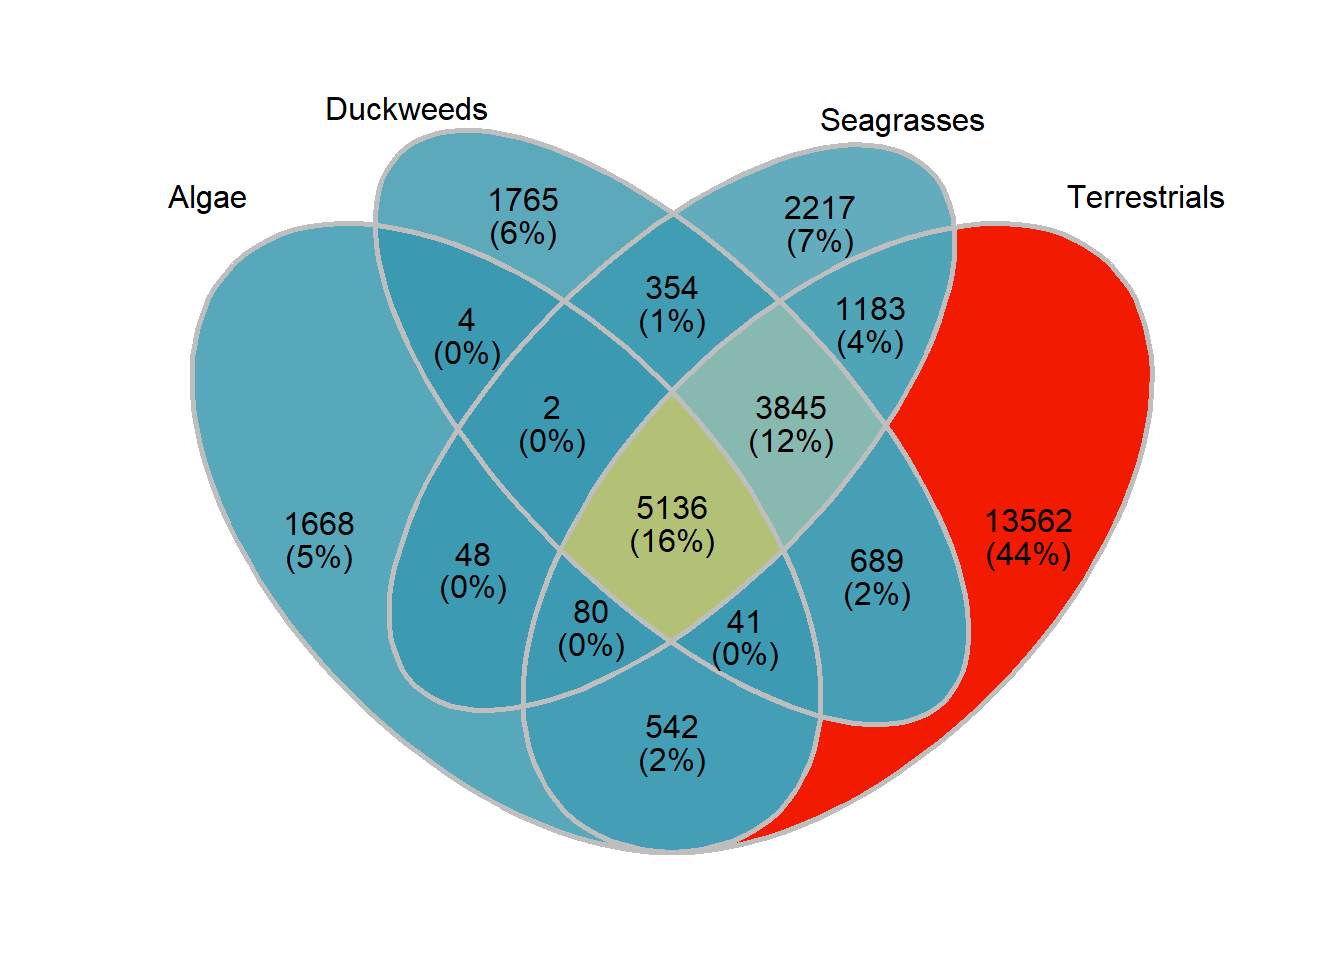
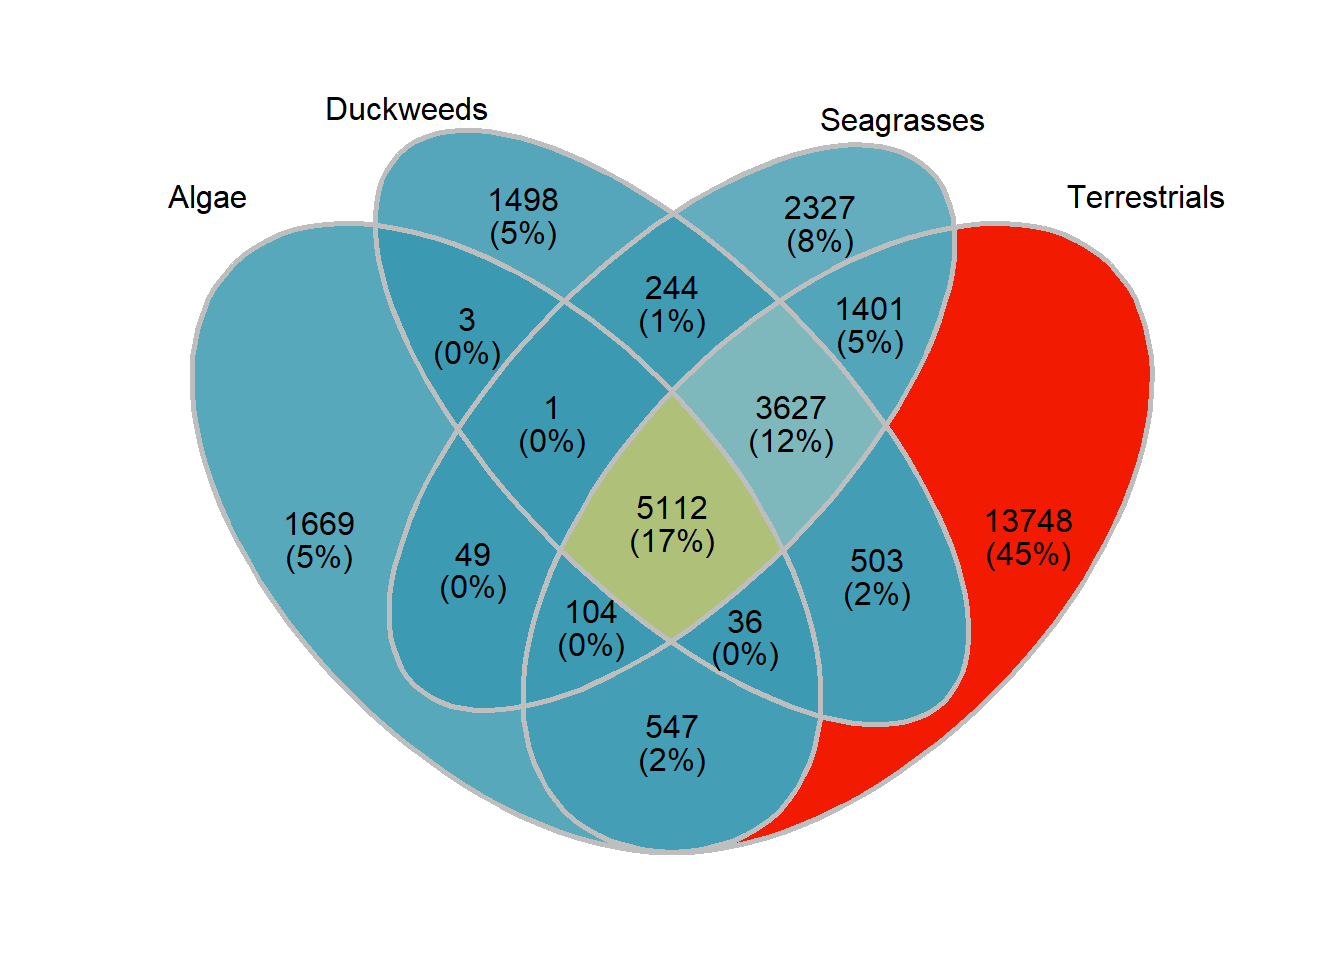
Build site.

diff --git a/docs/GO_and_ortho.html b/docs/GO_and_ortho.html
@@ -357,7 +357,8 @@ div.tocify {
 
 
 
-<h1 class="title toc-ignore">Visualising gene differences based on read alignments</h1>
+<h1 class="title toc-ignore">Visualising gene differences based on read
+alignments</h1>
 <h4 class="author">Philipp Bayer</h4>
 <h4 class="date">9th March 2022</h4>
 
@@ -366,7 +367,9 @@ div.tocify {
 
 <p>
 <button type="button" class="btn btn-default btn-workflowr btn-workflowr-report" data-toggle="collapse" data-target="#workflowr-report">
-<span class="glyphicon glyphicon-list" aria-hidden="true"></span> workflowr <span class="glyphicon glyphicon-ok text-success" aria-hidden="true"></span>
+<span class="glyphicon glyphicon-list" aria-hidden="true"></span>
+workflowr <span class="glyphicon glyphicon-ok text-success"
+aria-hidden="true"></span>
 </button>
 </p>
 <div id="workflowr-report" class="collapse">
@@ -375,7 +378,9 @@ div.tocify {
 <a data-toggle="tab" href="#summary">Summary</a>
 </li>
 <li>
-<a data-toggle="tab" href="#checks"> Checks <span class="glyphicon glyphicon-ok text-success" aria-hidden="true"></span> </a>
+<a data-toggle="tab" href="#checks"> Checks <span
+class="glyphicon glyphicon-ok text-success" aria-hidden="true"></span>
+</a>
 </li>
 <li>
 <a data-toggle="tab" href="#versions">Past versions</a>
@@ -384,17 +389,28 @@ div.tocify {
 <div class="tab-content">
 <div id="summary" class="tab-pane fade in active">
 <p>
-<strong>Last updated:</strong> 2022-03-10
+<strong>Last updated:</strong> 2022-04-26
 </p>
 <p>
-<strong>Checks:</strong> <span class="glyphicon glyphicon-ok text-success" aria-hidden="true"></span> 7 <span class="glyphicon glyphicon-exclamation-sign text-danger" aria-hidden="true"></span> 0
+<strong>Checks:</strong> <span
+class="glyphicon glyphicon-ok text-success" aria-hidden="true"></span> 7
+<span class="glyphicon glyphicon-exclamation-sign text-danger"
+aria-hidden="true"></span> 0
 </p>
 <p>
-<strong>Knit directory:</strong> <code>Amphibolis_Posidonia_Comparison/</code> <span class="glyphicon glyphicon-question-sign" aria-hidden="true" title="This is the local directory in which the code in this file was executed."> </span>
+<strong>Knit directory:</strong>
+<code>Amphibolis_Posidonia_Comparison/</code> <span
+class="glyphicon glyphicon-question-sign" aria-hidden="true"
+title="This is the local directory in which the code in this file was executed.">
+</span>
 </p>
 <p>
-This reproducible <a href="http://rmarkdown.rstudio.com">R Markdown</a> analysis was created with <a
-  href="https://github.com/jdblischak/workflowr">workflowr</a> (version 1.6.2). The <em>Checks</em> tab describes the reproducibility checks that were applied when the results were created. The <em>Past versions</em> tab lists the development history.
+This reproducible <a href="http://rmarkdown.rstudio.com">R Markdown</a>
+analysis was created with <a
+  href="https://github.com/jdblischak/workflowr">workflowr</a> (version
+1.6.2). The <em>Checks</em> tab describes the reproducibility checks
+that were applied when the results were created. The <em>Past
+versions</em> tab lists the development history.
 </p>
 <hr>
 </div>
@@ -403,91 +419,138 @@ This reproducible <a href="http://rmarkdown.rstudio.com">R Markdown</a> analysis
 <div class="panel panel-default">
 <div class="panel-heading">
 <p class="panel-title">
-<a data-toggle="collapse" data-parent="#workflowr-checks" href="#strongRMarkdownfilestronguptodate"> <span class="glyphicon glyphicon-ok text-success" aria-hidden="true"></span> <strong>R Markdown file:</strong> up-to-date </a>
+<a data-toggle="collapse" data-parent="#workflowr-checks" href="#strongRMarkdownfilestronguptodate">
+<span class="glyphicon glyphicon-ok text-success"
+aria-hidden="true"></span> <strong>R Markdown file:</strong> up-to-date
+</a>
 </p>
 </div>
-<div id="strongRMarkdownfilestronguptodate" class="panel-collapse collapse">
+<div id="strongRMarkdownfilestronguptodate"
+class="panel-collapse collapse">
 <div class="panel-body">
-<p>Great! Since the R Markdown file has been committed to the Git repository, you know the exact version of the code that produced these results.</p>
+<p>Great! Since the R Markdown file has been committed to the Git
+repository, you know the exact version of the code that produced these
+results.</p>
 </div>
 </div>
 </div>
 <div class="panel panel-default">
 <div class="panel-heading">
 <p class="panel-title">
-<a data-toggle="collapse" data-parent="#workflowr-checks" href="#strongEnvironmentstrongempty"> <span class="glyphicon glyphicon-ok text-success" aria-hidden="true"></span> <strong>Environment:</strong> empty </a>
+<a data-toggle="collapse" data-parent="#workflowr-checks" href="#strongEnvironmentstrongempty">
+<span class="glyphicon glyphicon-ok text-success"
+aria-hidden="true"></span> <strong>Environment:</strong> empty </a>
 </p>
 </div>
 <div id="strongEnvironmentstrongempty" class="panel-collapse collapse">
 <div class="panel-body">
-<p>Great job! The global environment was empty. Objects defined in the global environment can affect the analysis in your R Markdown file in unknown ways. For reproduciblity it’s best to always run the code in an empty environment.</p>
+<p>Great job! The global environment was empty. Objects defined in the
+global environment can affect the analysis in your R Markdown file in
+unknown ways. For reproduciblity it’s best to always run the code in an
+empty environment.</p>
 </div>
 </div>
 </div>
 <div class="panel panel-default">
 <div class="panel-heading">
 <p class="panel-title">
-<a data-toggle="collapse" data-parent="#workflowr-checks" href="#strongSeedstrongcodesetseed20210414code"> <span class="glyphicon glyphicon-ok text-success" aria-hidden="true"></span> <strong>Seed:</strong> <code>set.seed(20210414)</code> </a>
+<a data-toggle="collapse" data-parent="#workflowr-checks" href="#strongSeedstrongcodesetseed20210414code">
+<span class="glyphicon glyphicon-ok text-success"
+aria-hidden="true"></span> <strong>Seed:</strong>
+<code>set.seed(20210414)</code> </a>
 </p>
 </div>
-<div id="strongSeedstrongcodesetseed20210414code" class="panel-collapse collapse">
+<div id="strongSeedstrongcodesetseed20210414code"
+class="panel-collapse collapse">
 <div class="panel-body">
-<p>The command <code>set.seed(20210414)</code> was run prior to running the code in the R Markdown file. Setting a seed ensures that any results that rely on randomness, e.g. subsampling or permutations, are reproducible.</p>
+<p>The command <code>set.seed(20210414)</code> was run prior to running
+the code in the R Markdown file. Setting a seed ensures that any results
+that rely on randomness, e.g. subsampling or permutations, are
+reproducible.</p>
 </div>
 </div>
 </div>
 <div class="panel panel-default">
 <div class="panel-heading">
 <p class="panel-title">
-<a data-toggle="collapse" data-parent="#workflowr-checks" href="#strongSessioninformationstrongrecorded"> <span class="glyphicon glyphicon-ok text-success" aria-hidden="true"></span> <strong>Session information:</strong> recorded </a>
+<a data-toggle="collapse" data-parent="#workflowr-checks" href="#strongSessioninformationstrongrecorded">
+<span class="glyphicon glyphicon-ok text-success"
+aria-hidden="true"></span> <strong>Session information:</strong>
+recorded </a>
 </p>
 </div>
-<div id="strongSessioninformationstrongrecorded" class="panel-collapse collapse">
+<div id="strongSessioninformationstrongrecorded"
+class="panel-collapse collapse">
 <div class="panel-body">
-<p>Great job! Recording the operating system, R version, and package versions is critical for reproducibility.</p>
+<p>Great job! Recording the operating system, R version, and package
+versions is critical for reproducibility.</p>
 </div>
 </div>
 </div>
 <div class="panel panel-default">
 <div class="panel-heading">
 <p class="panel-title">
-<a data-toggle="collapse" data-parent="#workflowr-checks" href="#strongCachestrongnone"> <span class="glyphicon glyphicon-ok text-success" aria-hidden="true"></span> <strong>Cache:</strong> none </a>
+<a data-toggle="collapse" data-parent="#workflowr-checks" href="#strongCachestrongnone">
+<span class="glyphicon glyphicon-ok text-success"
+aria-hidden="true"></span> <strong>Cache:</strong> none </a>
 </p>
 </div>
 <div id="strongCachestrongnone" class="panel-collapse collapse">
 <div class="panel-body">
-<p>Nice! There were no cached chunks for this analysis, so you can be confident that you successfully produced the results during this run.</p>
+<p>Nice! There were no cached chunks for this analysis, so you can be
+confident that you successfully produced the results during this
+run.</p>
 </div>
 </div>
 </div>
 <div class="panel panel-default">
 <div class="panel-heading">
 <p class="panel-title">
-<a data-toggle="collapse" data-parent="#workflowr-checks" href="#strongFilepathsstrongrelative"> <span class="glyphicon glyphicon-ok text-success" aria-hidden="true"></span> <strong>File paths:</strong> relative </a>
+<a data-toggle="collapse" data-parent="#workflowr-checks" href="#strongFilepathsstrongrelative">
+<span class="glyphicon glyphicon-ok text-success"
+aria-hidden="true"></span> <strong>File paths:</strong> relative </a>
 </p>
 </div>
 <div id="strongFilepathsstrongrelative" class="panel-collapse collapse">
 <div class="panel-body">
-<p>Great job! Using relative paths to the files within your workflowr project makes it easier to run your code on other machines.</p>
+<p>Great job! Using relative paths to the files within your workflowr
+project makes it easier to run your code on other machines.</p>
 </div>
 </div>
 </div>
 <div class="panel panel-default">
 <div class="panel-heading">
 <p class="panel-title">
-<a data-toggle="collapse" data-parent="#workflowr-checks" href="#strongRepositoryversionstrongahrefhttpsgithubcomphilippbayerAmphibolisPosidoniaComparisontreed4cd8657f0c6fa05905725b88248d64e8845f1f9targetblankd4cd865a"> <span class="glyphicon glyphicon-ok text-success" aria-hidden="true"></span> <strong>Repository version:</strong> <a href="https://github.com/philippbayer/Amphibolis_Posidonia_Comparison/tree/d4cd8657f0c6fa05905725b88248d64e8845f1f9" target="_blank">d4cd865</a> </a>
+<a data-toggle="collapse" data-parent="#workflowr-checks" href="#strongRepositoryversionstrongahrefhttpsgithubcomphilippbayerAmphibolisPosidoniaComparisontree0e47209cb87014fb6e1f735656025c864deb4144targetblank0e47209a">
+<span class="glyphicon glyphicon-ok text-success"
+aria-hidden="true"></span> <strong>Repository version:</strong>
+<a href="https://github.com/philippbayer/Amphibolis_Posidonia_Comparison/tree/0e47209cb87014fb6e1f735656025c864deb4144" target="_blank">0e47209</a>
+</a>
 </p>
 </div>
[1 lines of base64/hex data omitted]
+<div
[1 lines of base64/hex data omitted]
+class="panel-collapse collapse">
 <div class="panel-body">
 <p>
-Great! You are using Git for version control. Tracking code development and connecting the code version to the results is critical for reproducibility.
+Great! You are using Git for version control. Tracking code development
+and connecting the code version to the results is critical for
+reproducibility.
 </p>
 <p>
-The results in this page were generated with repository version <a href="https://github.com/philippbayer/Amphibolis_Posidonia_Comparison/tree/d4cd8657f0c6fa05905725b88248d64e8845f1f9" target="_blank">d4cd865</a>. See the <em>Past versions</em> tab to see a history of the changes made to the R Markdown and HTML files.
+The results in this page were generated with repository version
+<a href="https://github.com/philippbayer/Amphibolis_Posidonia_Comparison/tree/0e47209cb87014fb6e1f735656025c864deb4144" target="_blank">0e47209</a>.
+See the <em>Past versions</em> tab to see a history of the changes made
+to the R Markdown and HTML files.
 </p>
 <p>
-Note that you need to be careful to ensure that all relevant files for the analysis have been committed to Git prior to generating the results (you can use <code>wflow_publish</code> or <code>wflow_git_commit</code>). workflowr only checks the R Markdown file, but you know if there are other scripts or data files that it depends on. Below is the status of the Git repository when the results were generated:
+Note that you need to be careful to ensure that all relevant files for
+the analysis have been committed to Git prior to generating the results
+(you can use <code>wflow_publish</code> or
+<code>wflow_git_commit</code>). workflowr only checks the R Markdown
+file, but you know if there are other scripts or data files that it
+depends on. Below is the status of the Git repository when the results
+were generated:
 </p>
 <pre><code>
 Ignored files:
@@ -497,11 +560,31 @@ Ignored files:
     Ignored:    analysis/plotRgenes.nb.html
 
 Unstaged changes:
+    Deleted:    aln.fa
+    Modified:   data/Lost_present_gene_lists/Genes_lost_in_A_antarctica_not_other_seagrasses.txt
+    Modified:   data/Lost_present_gene_lists/Genes_lost_in_P_australis_not_other_seagrasses.txt
+    Modified:   data/Lost_present_gene_lists/Genes_lost_in_Z_marina_not_other_seagrasses.txt
+    Modified:   data/Lost_present_gene_lists/Genes_lost_in_Z_muelleri_not_other_seagrasses.txt
+    Modified:   data/Lost_present_gene_lists/Genes_only_in_Algae.txt
+    Modified:   data/Lost_present_gene_lists/Genes_only_in_Aquatics_and_Seagrasses.txt
+    Modified:   data/Lost_present_gene_lists/Genes_only_in_Aquatics_and_Seagrasses_and_Terrestrials.txt
+    Modified:   data/Lost_present_gene_lists/Genes_only_in_Duckweeds.txt
+    Modified:   data/Lost_present_gene_lists/Genes_only_in_Seagrasses.txt
+    Modified:   data/Lost_present_gene_lists/Genes_only_in_Terrestrials.txt
+    Modified:   data/Lost_present_gene_lists/Genes_union_of_Seagrass_and_Aquatics_union.txt
+    Modified:   data/arabidopsis_gene_level_comparison.xlsx
+    Modified:   data/arabidopsis_gene_level_comparison_only_losts.xlsx
+    Modified:   data/arabidopsis_gene_level_counts.xlsx
     Modified:   output/GO_results_genes_in_Algae_NOT_Duckweeds_NOT_Seagrasses_NOT_Terrestrials.csv.png
     Modified:   output/GO_results_genes_in_Aquatics_NOT_Seagrasses_NOT_Terrestrials.csv.png
+    Modified:   output/GO_results_genes_in_Aquatics_and_Seagrasses_NOT_Terrestrials.csv
+    Modified:   output/GO_results_genes_in_Aquatics_and_Seagrasses_NOT_Terrestrials.csv.png
+    Modified:   output/GO_results_genes_in_Duckweeds_NOT_Algae_NOT_Seagrasses_NOT_Terrestrials.csv
     Modified:   output/GO_results_genes_in_Duckweeds_NOT_Algae_NOT_Seagrasses_NOT_Terrestrials.csv.png
+    Modified:   output/GO_results_genes_in_Seagrasses_NOT_Algae_NOT_Duckweeds_NOT_Terrestrials.csv
     Modified:   output/GO_results_genes_in_Seagrasses_NOT_Algae_NOT_Duckweeds_NOT_Terrestrials.csv.png
     Modified:   output/GO_results_genes_in_Seagrasses_NOT_Aquatics_NOT_Terrestrials.csv.png
+    Modified:   output/GO_results_genes_in_Terrestrials_NOT_Aquatics_NOT_Seagrasses.csv
     Modified:   output/GO_results_genes_in_Terrestrials_NOT_Aquatics_NOT_Seagrasses.csv.png
     Modified:   output/GO_results_genes_in_all_seagrasses_vs_backgroundAll_intersect.csv.png
     Modified:   output/GO_results_genes_in_all_seagrasses_vs_backgroundAll_union.csv.png
@@ -513,16 +596,20 @@ Unstaged changes:
     Modified:   output/GO_results_genes_only_P_australis_not_other_seagrasses.csv.png
     Modified:   output/GO_results_genes_only_Z_marina_not_other_seagrasses.csv.png
     Modified:   output/GO_results_genes_only_Z_muelleri_not_other_seagrasses.csv.png
+    Modified:   output/GO_results_genes_union_Aquatics_and_Seagrasses_NOT_Terrestrials.csv
     Modified:   output/GO_results_genes_union_Aquatics_and_Seagrasses_NOT_Terrestrials.csv.png
     Modified:   output/GO_results_terrestrials_vs_union_aquatics_seagrasses.png
     Modified:   output/Lost_GO_terms_in_five_species.PlantSpecific.xlsx
     Modified:   output/Lost_GO_terms_in_five_species.xlsx
     Modified:   output/Seagrasses_shared_lost_genes.xlsx
     Modified:   output/all_GO_plots.Rdata
+    Modified:   output/group_venn_image.Rdata
 
 </code></pre>
 <p>
-Note that any generated files, e.g. HTML, png, CSS, etc., are not included in this status report because it is ok for generated content to have uncommitted changes.
+Note that any generated files, e.g. HTML, png, CSS, etc., are not
+included in this status report because it is ok for generated content to
+have uncommitted changes.
 </p>
 </div>
 </div>
@@ -533,7 +620,12 @@ Note that any generated files, e.g. HTML, png, CSS, etc., are not included in t
 <div id="versions" class="tab-pane fade">
 
 <p>
-These are the previous versions of the repository in which changes were made to the R Markdown (<code>analysis/GO_and_ortho.Rmd</code>) and HTML (<code>docs/GO_and_ortho.html</code>) files. If you’ve configured a remote Git repository (see <code>?wflow_git_remote</code>), click on the hyperlinks in the table below to view the files as they were in that past version.
+These are the previous versions of the repository in which changes were
+made to the R Markdown (<code>analysis/GO_and_ortho.Rmd</code>) and HTML
+(<code>docs/GO_and_ortho.html</code>) files. If you’ve configured a
+remote Git repository (see <code>?wflow_git_remote</code>), click on the
+hyperlinks in the table below to view the files as they were in that
+past version.
 </p>
 <div class="table-responsive">
 <table class="table table-condensed table-hover">
@@ -557,6 +649,23 @@ Message
 </tr>
 </thead>
 <tbody>
+<tr>
+<td>
+html
+</td>
+<td>
+<a href="https://rawcdn.githack.com/philippbayer/Amphibolis_Posidonia_Comparison/663dcbcabb39466029e030b29f090a2a31114e50/docs/GO_and_ortho.html" target="_blank">663dcbc</a>
+</td>
+<td>
+Philipp Bayer
+</td>
+<td>
+2022-03-10
+</td>
+<td>
+Build site.
+</td>
+</tr>
 <tr>
 <td>
 Rmd
@@ -650,11 +759,11 @@ add more ifles
 </div>
 </div>
 <pre class="r"><code>library(tidyverse)</code></pre>
-<pre><code>Warning: package &#39;tidyverse&#39; was built under R version 4.1.1</code></pre>
+<pre><code>Warning: package &#39;tidyverse&#39; was built under R version 4.1.2</code></pre>
 <pre><code>Warning: package &#39;ggplot2&#39; was built under R version 4.1.1</code></pre>
 <pre><code>Warning: package &#39;tibble&#39; was built under R version 4.1.1</code></pre>
 <pre><code>Warning: package &#39;tidyr&#39; was built under R version 4.1.1</code></pre>
-<pre><code>Warning: package &#39;readr&#39; was built under R version 4.1.1</code></pre>
+<pre><code>Warning: package &#39;readr&#39; was built under R version 4.1.2</code></pre>
 <pre><code>Warning: package &#39;purrr&#39; was built under R version 4.1.1</code></pre>
 <pre><code>Warning: package &#39;dplyr&#39; was built under R version 4.1.1</code></pre>
 <pre><code>Warning: package &#39;stringr&#39; was built under R version 4.1.1</code></pre>
@@ -662,7 +771,8 @@ add more ifles
 <pre class="r"><code>library(patchwork)</code></pre>
 <pre><code>Warning: package &#39;patchwork&#39; was built under R version 4.1.1</code></pre>
 <pre class="r"><code>knitr::opts_knit$set(root.dir = rprojroot::find_rstudio_root_file())</code></pre>
-<p>In this one I just merge some plots from the Orthofinder and GO enrichment Rmds, which I have saved as Rdata objects.</p>
+<p>In this one I just merge some plots from the Orthofinder and GO
+enrichment Rmds, which I have saved as Rdata objects.</p>
 <pre class="r"><code>load(&#39;output/all_GO_plots.Rdata&#39;)
 load(&#39;output/group_venn_image.Rdata&#39;)
 load(&#39;output/seagrass_venn_image.Rdata&#39;)</code></pre>
@@ -670,11 +780,16 @@ load(&#39;output/seagrass_venn_image.Rdata&#39;)</code></pre>
 <p><img src="figure/GO_and_ortho.Rmd/unnamed-chunk-2-1.png" width="672" style="display: block; margin: auto;" /></p>
 <pre class="r"><code>seagrass_venn</code></pre>
 <p><img src="figure/GO_and_ortho.Rmd/unnamed-chunk-3-1.png" width="672" style="display: block; margin: auto;" /></p>
-<p>OK now we can make patchworks with these Venn diagrams and their associated GO-terms</p>
+<p>OK now we can make patchworks with these Venn diagrams and their
+associated GO-terms</p>
 <pre class="r"><code>sum1 &lt;- group_venn / (plot_list$GO_results_genes_in_Terrestrials_NOT_Aquatics_NOT_Seagrasses.csv + theme(legend.position=&quot;bottom&quot;)) +  plot_annotation(tag_levels = &#39;A&#39;) +plot_layout(heights=c(1.5,1))
 sum1</code></pre>
+<pre><code>Warning: ggrepel: 1 unlabeled data points (too many overlaps). Consider
+increasing max.overlaps</code></pre>
 <p><img src="figure/GO_and_ortho.Rmd/unnamed-chunk-4-1.png" width="768" style="display: block; margin: auto;" /></p>
 <pre class="r"><code>cowplot::save_plot(sum1, filename = &#39;output/patchwork_terrestrials_gene_loss.png&#39;, base_height = 10, base_width = 8)</code></pre>
+<pre><code>Warning: ggrepel: 1 unlabeled data points (too many overlaps). Consider
+increasing max.overlaps</code></pre>
 <pre class="r"><code>sum2 &lt;- seagrass_venn / (plot_list$GO_results_genes_in_all_seagrasses_vs_seagrassesBackground_intersect.csv + theme(legend.position=&quot;bottom&quot;)) +  plot_annotation(tag_levels = &#39;A&#39;) +plot_layout(heights=c(1.5,1))
 sum2</code></pre>
 <p><img src="figure/GO_and_ortho.Rmd/unnamed-chunk-5-1.png" width="768" style="display: block; margin: auto;" /></p>
@@ -682,7 +797,8 @@ sum2</code></pre>
 <br>
 <p>
 <button type="button" class="btn btn-default btn-workflowr btn-workflowr-sessioninfo" data-toggle="collapse" data-target="#workflowr-sessioninfo" style="display: block;">
-<span class="glyphicon glyphicon-wrench" aria-hidden="true"></span> Session information
+<span class="glyphicon glyphicon-wrench" aria-hidden="true"></span>
+Session information
 </button>
 </p>
 <div id="workflowr-sessioninfo" class="collapse">
@@ -703,19 +819,19 @@ attached base packages:
 
 other attached packages:
  [1] patchwork_1.1.1 forcats_0.5.1   stringr_1.4.0   dplyr_1.0.7    
- [5] purrr_0.3.4     readr_2.0.2     tidyr_1.1.4     tibble_3.1.5   
+ [5] purrr_0.3.4     readr_2.1.2     tidyr_1.1.4     tibble_3.1.5   
  [9] ggplot2_3.3.5   tidyverse_1.3.1 workflowr_1.6.2
 
 loaded via a namespace (and not attached):
  [1] httr_1.4.2         sass_0.4.0         jsonlite_1.7.2     modelr_0.1.8      
  [5] bslib_0.3.1        assertthat_0.2.1   highr_0.9          cellranger_1.1.0  
  [9] yaml_2.2.1         ggrepel_0.9.1      pillar_1.6.4       backports_1.2.1   
-[13] glue_1.4.2         digest_0.6.28      promises_1.2.0.1   rvest_1.0.2       
+[13] glue_1.6.2         digest_0.6.28      promises_1.2.0.1   rvest_1.0.2       
 [17] colorspace_2.0-2   cowplot_1.1.1      htmltools_0.5.2    httpuv_1.6.3      
 [21] pkgconfig_2.0.3    broom_0.7.9        haven_2.4.3        scales_1.1.1      
 [25] whisker_0.4        later_1.3.0        tzdb_0.1.2         git2r_0.28.0      
 [29] proxy_0.4-26       generics_0.1.1     farver_2.1.0       ellipsis_0.3.2    
-[33] withr_2.4.2        cli_3.0.1          magrittr_2.0.1     crayon_1.4.1      
+[33] withr_2.5.0        cli_3.2.0          magrittr_2.0.1     crayon_1.4.1      
 [37] readxl_1.3.1       evaluate_0.14      fs_1.5.0           fansi_0.5.0       
 [41] xml2_1.3.2         class_7.3-19       tools_4.1.0        hms_1.1.1         
 [45] lifecycle_1.0.1    munsell_0.5.0      reprex_2.0.1       compiler_4.1.0    
